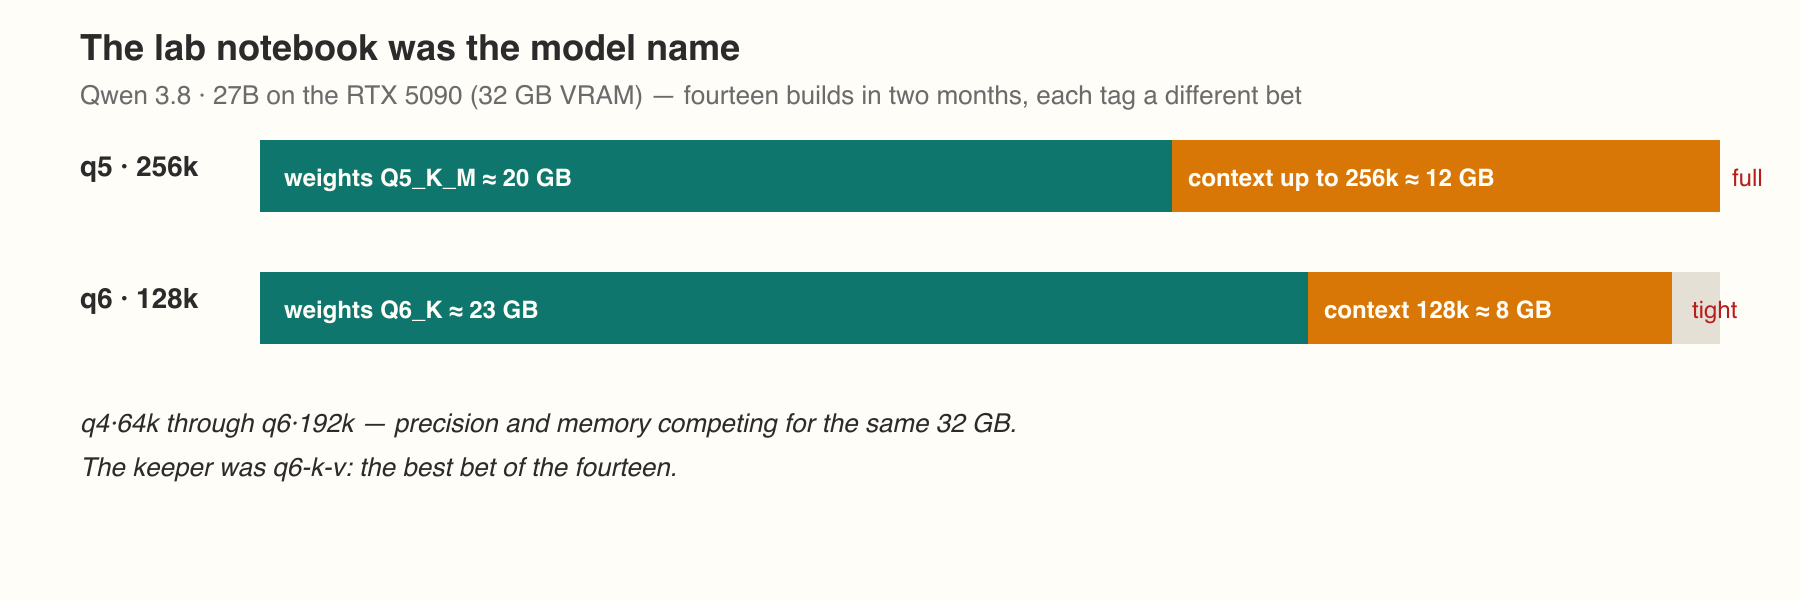
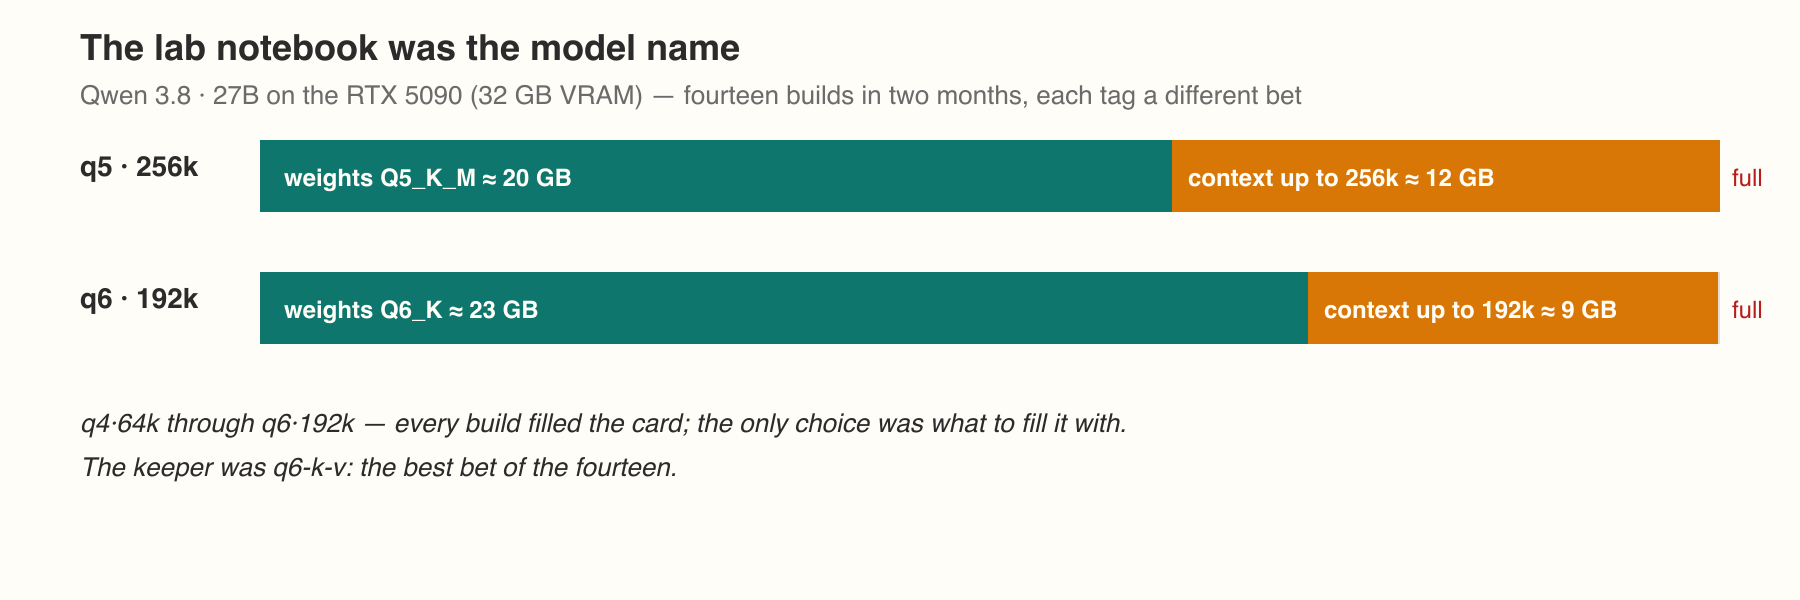
Qwen figure v3: second bar corrected to q6-192k (ollama show: Q6_K, num_ctx 196608); both builds full to the brim

Changed region(s): [[0.7778, 0.45, 0.9956, 0.57], [0.2178, 0.69, 0.6222, 0.72], [0.0622, 0.48, 0.1244, 0.51]]

diff --git a/content/posts/20261116-ai-setup-2-the-fleet/index.md b/content/posts/20261116-ai-setup-2-the-fleet/index.md
@@ -1,7 +1,7 @@
 +++
 title = "My AI Teaching Setup, Part 2: The Fleet"
 date = 2026-11-16
-lastmod = 2026-11-16T15:54:35+11:00
+lastmod = 2026-11-16T15:59:17+11:00
 tags = ["AI", "LaTeX", "Teaching", "Hardware"]
 categories = ["Blog"]
 draft = true
